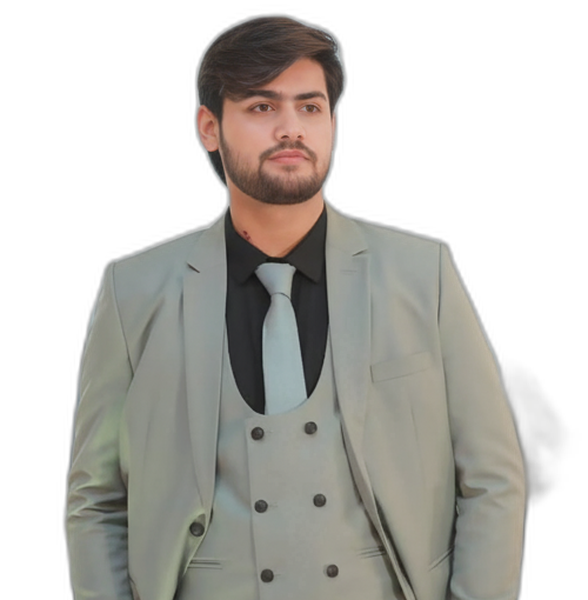
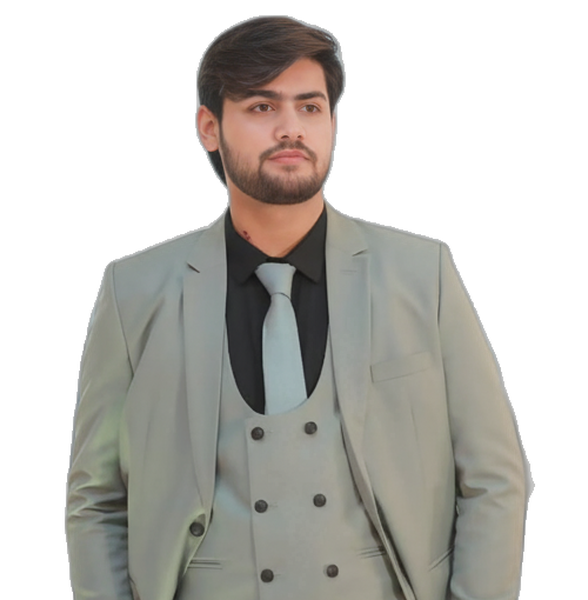
fix: portrait accessible name, contain-fit mosaic, cleaner cutout

Changed region(s): [[0.8878, 0.69, 0.949, 0.84], [0.8571, 0.63, 0.8878, 0.72]]

diff --git a/src/components/PortraitMosaic.tsx b/src/components/PortraitMosaic.tsx
@@ -1,6 +1,6 @@
 import { useEffect, useRef, useState } from 'react'
 import { prefersReducedMotion } from '../lib/motion'
-import { sampleTiles, tileColor, type Tile } from '../lib/mosaic'
+import { containRect, sampleTiles, tileColor, type Tile } from '../lib/mosaic'
 
 type Props = { src: string; className?: string }
 
@@ -80,7 +80,8 @@ export default function PortraitMosaic({ src, className }: Props) {
       off.height = h
       const octx = off.getContext('2d', { willReadFrequently: true })
       if (!octx) return
-      octx.drawImage(source, 0, 0, w, h)
+      const fit = containRect(source.naturalWidth, source.naturalHeight, w, h)
+      octx.drawImage(source, fit.x, fit.y, fit.w, fit.h)
       tilePx = Math.round(TILE_CSS_PX * dpr)
       tiles = sampleTiles(octx.getImageData(0, 0, w, h).data, w, h, tilePx)
       jitter = tiles.map(() => (Math.random() - 0.5) * 0.12)
@@ -134,11 +135,11 @@ export default function PortraitMosaic({ src, className }: Props) {
   }, [src])
 
   return (
-    <div ref={wrapRef} className={className} style={{ position: 'relative' }}>
+    <div ref={wrapRef} role="img" aria-label={ALT} className={className} style={{ position: 'relative' }}>
       <img
         ref={imgRef}
         src={src}
-        alt={ALT}
+        alt=""
         style={{
           display: 'block',
           width: '100%',

diff --git a/src/lib/mosaic.test.ts b/src/lib/mosaic.test.ts
@@ -1,5 +1,5 @@
 import { describe, expect, it } from 'vitest'
-import { sampleTiles, tileColor } from './mosaic'
+import { containRect, sampleTiles, tileColor } from './mosaic'
 
 function image(w: number, h: number, px: (x: number, y: number) => [number, number, number, number]) {
   const d = new Uint8ClampedArray(w * h * 4)
@@ -29,5 +29,17 @@ describe('tileColor', () => {
   it('maps lum endpoints', () => {
     expect(tileColor(0, 0)).toBe('rgb(14, 18, 32)')
     expect(tileColor(1, 0)).toBe('rgb(201, 214, 242)')
+  })
+})
+
+describe('containRect', () => {
+  it('fills a same-aspect box', () => {
+    expect(containRect(100, 200, 50, 100)).toEqual({ x: 0, y: 0, w: 50, h: 100 })
+  })
+  it('letterboxes horizontally in a wide box', () => {
+    expect(containRect(100, 200, 200, 100)).toEqual({ x: 75, y: 0, w: 50, h: 100 })
+  })
+  it('letterboxes vertically in a tall box', () => {
+    expect(containRect(200, 100, 100, 200)).toEqual({ x: 0, y: 75, w: 100, h: 50 })
   })
 })

diff --git a/src/lib/mosaic.ts b/src/lib/mosaic.ts
@@ -40,3 +40,11 @@ export function tileColor(lum: number, jitter: number): string {
   })
   return `rgb(${c[0]}, ${c[1]}, ${c[2]})`
 }
+
+/** Largest rect with the source aspect ratio that fits inside the box, centred (like object-fit: contain). */
+export function containRect(srcW: number, srcH: number, boxW: number, boxH: number): { x: number; y: number; w: number; h: number } {
+  const scale = Math.min(boxW / srcW, boxH / srcH)
+  const w = srcW * scale
+  const h = srcH * scale
+  return { x: (boxW - w) / 2, y: (boxH - h) / 2, w, h }
+}

diff --git a/src/components/PortraitMosaic.test.tsx b/src/components/PortraitMosaic.test.tsx
@@ -1,0 +1,12 @@
+import '@testing-library/jest-dom/vitest'
+import { render, screen } from '@testing-library/react'
+import { describe, expect, it } from 'vitest'
+import PortraitMosaic from './PortraitMosaic'
+
+describe('PortraitMosaic', () => {
+  it('exposes the portrait via the wrapper accessible name', () => {
+    render(<PortraitMosaic src="/x.png" />)
+    const el = screen.getByRole('img', { name: 'Portrait of Muhammad Faizan Khan' })
+    expect(el.tagName).toBe('DIV')
+  })
+})

diff --git a/scripts/make-portrait.py b/scripts/make-portrait.py
@@ -4,7 +4,9 @@ Run: python3 -I scripts/make-portrait.py
 """
 from pathlib import Path
 from PIL import Image
+import numpy as np
 from rembg import remove
+from scipy import ndimage
 
 ROOT = Path(__file__).resolve().parent.parent
 SRC = ROOT / "source-assets" / "img.png"
@@ -14,6 +16,17 @@ HEIGHT = 600
 
 img = Image.open(SRC).convert("RGBA")
 cut = remove(img)
+
+# Clean the matte: drop faint alpha, keep only the largest connected opaque blob.
+arr = np.array(cut)
+alpha = arr[..., 3]
+alpha[alpha <= 64] = 0
+labels, n = ndimage.label(alpha > 0)
+if n > 1:
+    sizes = ndimage.sum(alpha > 0, labels, range(1, n + 1))
+    alpha[labels != (int(np.argmax(sizes)) + 1)] = 0
+arr[..., 3] = alpha
+cut = Image.fromarray(arr, "RGBA")
 crop = cut.crop(CROP)
 w = round(crop.width * HEIGHT / crop.height)
 crop = crop.resize((w, HEIGHT), Image.LANCZOS)
